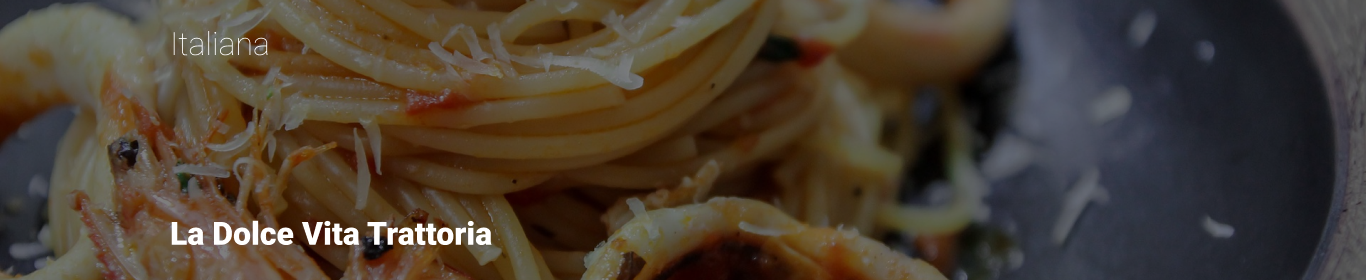
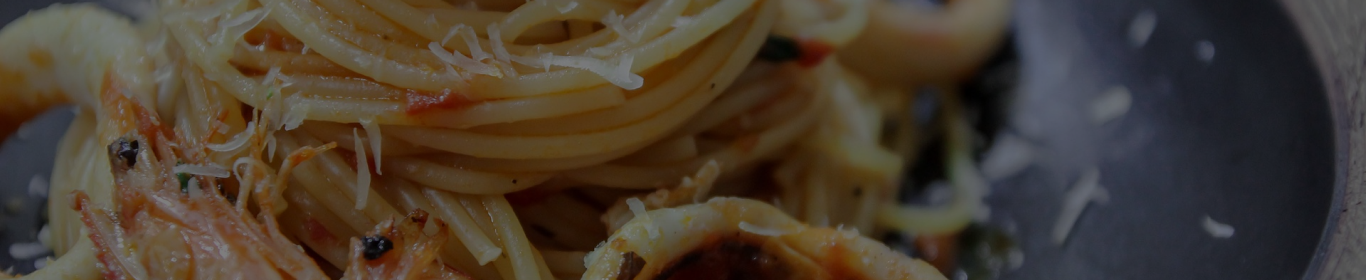
Segunda correção de responsividade

Changed region(s): [[0.123, 0.7714, 0.369, 0.8857], [0.123, 0.1143, 0.2152, 0.2]]

diff --git a/src/components/Hero2/styles.ts b/src/components/Hero2/styles.ts
@@ -30,26 +30,57 @@ export const Titulo = styled.h2`
   text-align: center;
   display: flex;
   justify-content: center;
-  align-items: center;
   position: absolute;
-  gap: 659px;
-  top: 50%;
-  left: 50%;
-  transform: translate(-50%, -50%);
+  gap: 710px;
   width: 100%;
-  margin: 0;
-  z-index: 1;
 `;
 
 export const Apresenta = styled.div`
   position: absolute;
   top: calc(100%);
-  left: 50%;
-  transform: translateX(-50%);
   display: flex;
-  justify-content: center;
-  align-items: center;
   width: 100%;
   height: 280px;
   z-index: 0;
+  overflow: hidden;
+
+  img {
+    width: 100%;
+    min-width: 100vw;
+    height: 100%;
+    object-fit: cover;
+  }
+
+  .text-wrapper {
+    position: absolute;
+    top: 25px;
+    left: 50%;
+    transform: translateX(-50%);
+    text-align: center;
+    width: 100%;
+    max-width: 1024px;
+    margin: 0 auto;
+  }
+
+  .text-italiana {
+    font-family: 'Roboto', sans-serif;
+    font-weight: 100;
+    font-size: 32px;
+    line-height: 37.5px;
+    width: 101px;
+    height: 33.25px;
+    color: ${cores.branca};
+  }
+
+  .text-dolceVita {
+    font-family: 'Roboto', sans-serif;
+    font-weight: 900;
+    font-size: 32px;
+    line-height: 37.5px;
+    padding-top: 156.5px;
+    text-align: left;
+    width: 676px;
+    height: 33.25px;
+    color: ${cores.branca};
+  }
 `;

diff --git a/src/components/Hero2/index.tsx b/src/components/Hero2/index.tsx
@@ -1,5 +1,4 @@
 import { Imagem, LogoContainer, Apresenta, Titulo } from './styles';
-
 import heroImg from '../../assets/images/fundo.png';
 import logo from '../../assets/images/logo.png';
 import apresentacao from '../../assets/images/apresentacao.png';
@@ -9,13 +8,16 @@ const Hero2 = () => (
     <LogoContainer>
       <img src={logo} alt="EFOOD" />
     </LogoContainer>
-
     <Titulo>
       <p>Restaurantes</p>
       <p>0 produto(s) no carrinho</p>
     </Titulo>
     <Apresenta>
       <img src={apresentacao} alt="Apresentação" />
+      <div className="text-wrapper">
+        <div className="text-italiana">italiana</div>
+        <div className="text-dolceVita">La Dolce Vita Trattoria</div>
+      </div>
     </Apresenta>
   </Imagem>
 );
